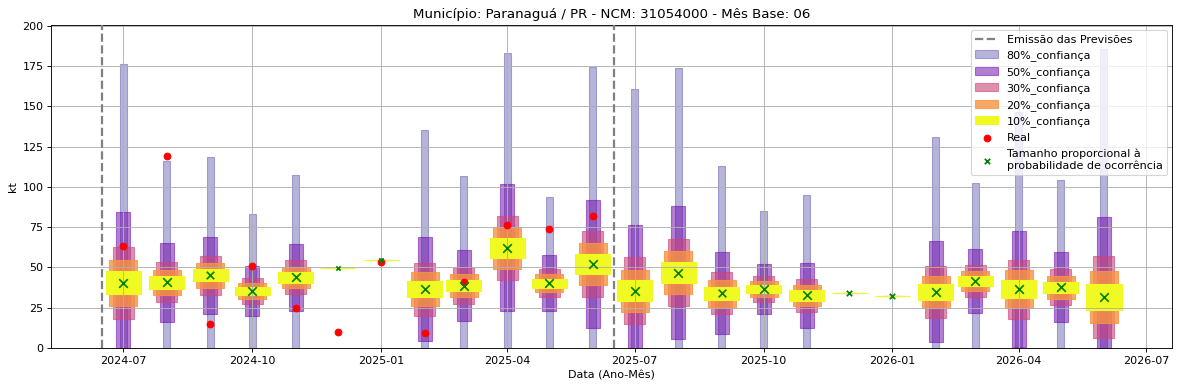
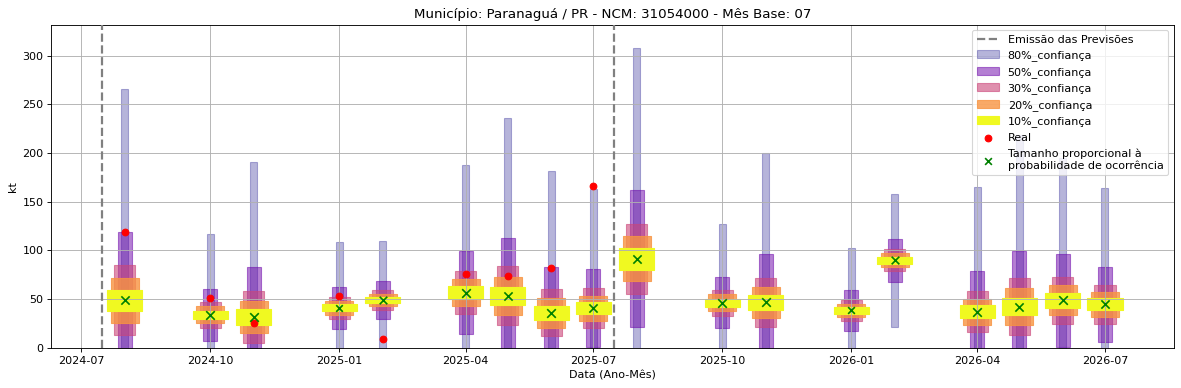
Atualização automática em lote

diff --git a/README.md b/README.md
@@ -6,9 +6,9 @@
 
 # Previsão de Importação - Paranaguá-PR
 
-> **Emissão:** 06-2025
+> **Emissão:** 07-2025
 > Para fins de comparação, também apresentamos a seguir previsões e valores reais de períodos anteriores ao atual.
-> As previsões foram geradas com base em dados limitados até o mês 6.
+> As previsões foram geradas com base em dados limitados até o mês 7.
 
 ---
 
@@ -17,17 +17,15 @@
 
 ![Gráfico de Previsão](31042090.png)
 Fator de Influência em Destaque:
+Previsões emitidas no mês 8.
 Previsão Influenciada:
 - Município: Paranaguá
 - Produto (NCM): Outros cloretos de potássio-31042090 
 - Mês previsto: 07
 
 
-Fator Influenciador: Comex
-- Município: Maringá
-- Grupo de Produto (SH2): Sementes e frutos oleaginosos; grãos, sementes e frutos diversos; plantas industriais ou medicinais; palhas e forragens-12 
-- Mês previsto: 07
-- Unidade: kt_lag12
+Fator Influenciador: O tempo. Elevada correlação com o tempo ou tendência. 
+- Unidade: date
 
 
 
@@ -37,37 +35,15 @@ Fator Influenciador: Comex
 
 ![Gráfico de Previsão](31054000.png)
 Fator de Influência em Destaque:
+Previsões emitidas no mês 8.
 Previsão Influenciada:
 - Município: Paranaguá
 - Produto (NCM): Diidrogeno-ortofosfato de amônio (fosfato monoamônico ou monoamoniacal), mesmo misturado com hidrogeno-ortofosfato de diamônio (fosfato diamônico ou diamoniacal)-31054000 
-- Mês previsto: 07
+- Mês previsto: 05
 
 
-Fator Influenciador: Comex
-- Município: Goiânia
-- Grupo de Produto (SH2): Sementes e frutos oleaginosos; grãos, sementes e frutos diversos; plantas industriais ou medicinais; palhas e forragens-12 
-- Mês previsto: 07
-- Unidade: kt_lag24
-
-
-
-
-
-
-
-![Gráfico de Previsão](31055900.png)
-Fator de Influência em Destaque:
-Previsão Influenciada:
-- Município: Paranaguá
-- Produto (NCM): Outros adubos/fertilizantes minerais químicos, com nitrogênio e fósforo-31055900 
-- Mês previsto: 07
-
-
-Fator Influenciador: Comex
-- Município: Porto Alegre
-- Grupo de Produto (SH2): Sementes e frutos oleaginosos; grãos, sementes e frutos diversos; plantas industriais ou medicinais; palhas e forragens-12 
-- Mês previsto: 07
-- Unidade: sm_diff
+Fator Influenciador: O tempo. Elevada correlação com o tempo ou tendência. 
+- Unidade: date
 
 
 
